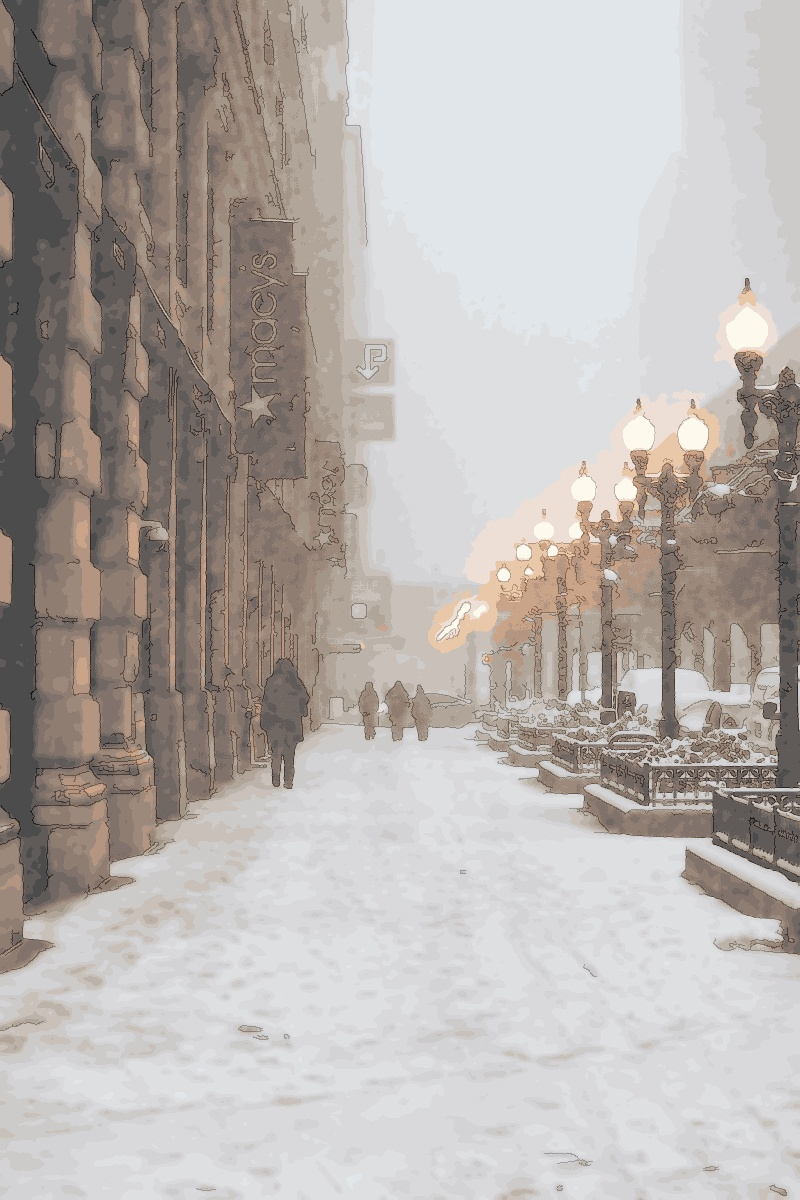
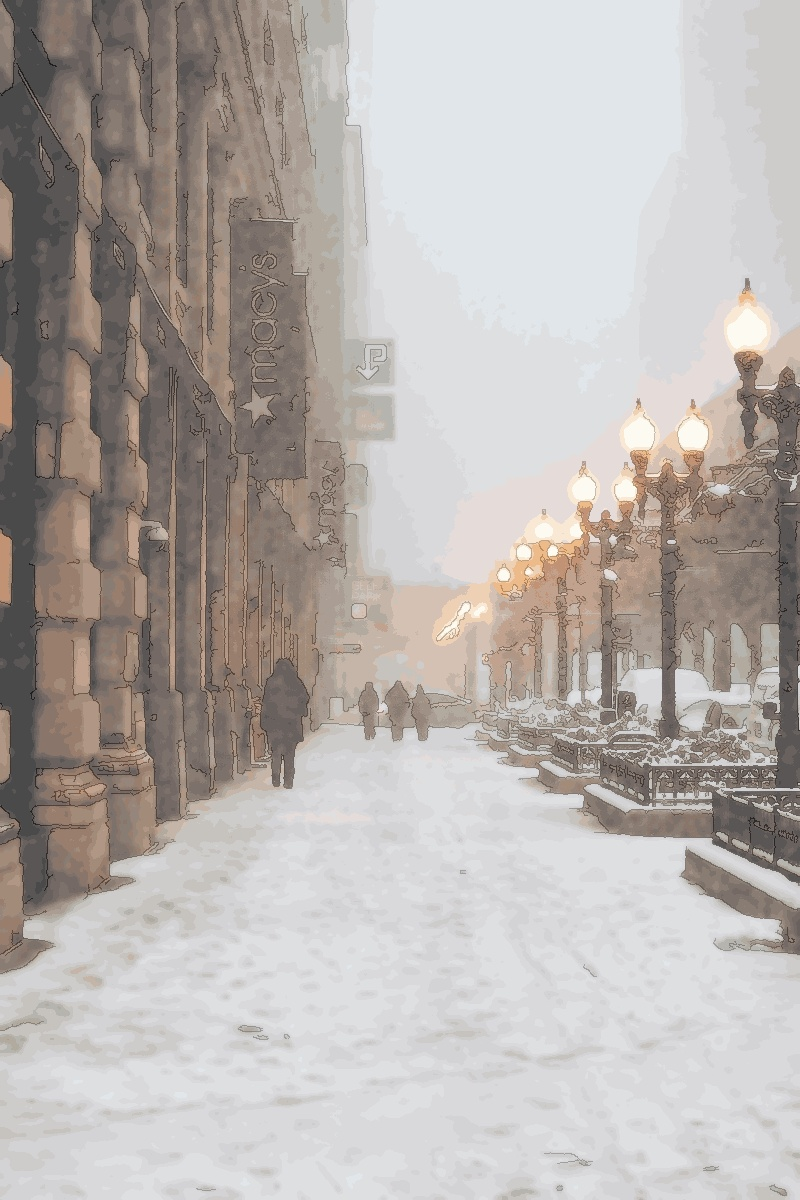
add some new functions, waiting to be tested

diff --git a/simple-cartoonize-image.py b/simple-cartoonize-image.py
@@ -41,6 +41,16 @@ def adjust_gamma(image, gamma=1.0):
     table = np.array([(i / 255.0) ** inv_gamma * 255 for i in np.arange(256)]).astype("uint8")
     return cv2.LUT(image, table)
 
+def apply_background_blur(image, edges, blur_strength=15):
+    """
+    Apply Gaussian blur to the background based on edge detection.
+    """
+    mask = cv2.bitwise_not(edges)  # Invert edges to create mask
+    mask_colored = cv2.cvtColor(mask, cv2.COLOR_GRAY2BGR)  # Convert mask to 3 channels
+    blurred_background = cv2.GaussianBlur(image, (blur_strength, blur_strength), 0)
+    blended = np.where(mask_colored == 0, blurred_background, image)
+    return blended
+
 def cartoonize_image(image_path, output_path, max_width=1200, max_height=1200):
     img = cv2.imread(image_path)
     if img is None:
@@ -52,8 +62,10 @@ def cartoonize_image(image_path, output_path, max_width=1200, max_height=1200):
     gray = cv2.cvtColor(gamma_corrected, cv2.COLOR_BGR2GRAY)
     blurred = cv2.GaussianBlur(gray, (5, 5), 0)
     edges = cv2.Canny(blurred, threshold1=50, threshold2=150)
+    # edges = thicken_edges(edges, kernel_size=2)
     color = cv2.bilateralFilter(gamma_corrected, d=9, sigmaColor=120, sigmaSpace=120)
-    quantized = kmeans_color_quantization(color, clusters=20)
+    quantized = kmeans_color_quantization(color, clusters=30)
+    blurred_background = apply_background_blur(quantized, edges, blur_strength=21)
 
     # Invert edges to make them white on black background
     edges_inv = cv2.bitwise_not(edges)
@@ -62,7 +74,10 @@ def cartoonize_image(image_path, output_path, max_width=1200, max_height=1200):
     # Blend the quantized image and the inverted edges
     alpha = 0.8  # Weight for the color image
     beta = 0.2   # Weight for the edges
-    cartoon = cv2.addWeighted(quantized, alpha, edges_inv_colored, beta, 0)
+    cartoon = cv2.addWeighted(blurred_background, alpha, edges_inv_colored, beta, 0)
+    # cartoon_sharpened = sharpen_image(cartoon)
+    # cartoon = blend_with_original(cartoon, cartoon_sharpened, alpha=0.6)
+    # cartoon = normalize_brightness(cartoon)
 
     cv2.imwrite(output_path, cartoon)
     print(f"Enhanced cartoonized image saved at {output_path}")
@@ -98,3 +113,56 @@ if __name__ == "__main__":
     input_path = "image/2.jpg"
     output_path = "enhanced_output_cartoon.jpg"
     cartoonize_image(input_path, output_path)
+
+def thicken_edges(edges, kernel_size=3):
+    """
+    Thicken the edges using dilation.
+    """
+    kernel = np.ones((kernel_size, kernel_size), np.uint8)
+    thickened_edges = cv2.dilate(edges, kernel, iterations=1)
+    return thickened_edges
+
+def sharpen_image(image, strength=1.0):
+    """
+    Apply a softer sharpening effect to the image.
+    
+    Parameters:
+    - image: Input image.
+    - strength: Strength of the sharpening effect (default=1.0). Lower values produce softer sharpening.
+
+    Returns:
+    - sharpened: Sharpened image.
+    """
+    kernel_sharpening = np.array([[0, -1, 0],
+                                  [-1, 4 + strength, -1],
+                                  [0, -1, 0]])
+    sharpened = cv2.filter2D(image, -1, kernel_sharpening)
+    return sharpened
+
+def blend_with_original(image, sharpened, alpha=0.7):
+    """
+    Blend the sharpened image with the original image for softer sharpening.
+    
+    Parameters:
+    - image: Original image.
+    - sharpened: Sharpened image.
+    - alpha: Weight of the sharpened image (default=0.7).
+
+    Returns:
+    - blended: Final blended image.
+    """
+    blended = cv2.addWeighted(image, 1 - alpha, sharpened, alpha, 0)
+    return blended
+
+def normalize_brightness(image):
+    """
+    Normalize brightness to avoid overexposure.
+    
+    Parameters:
+    - image: Input image.
+
+    Returns:
+    - normalized: Brightness-normalized image.
+    """
+    normalized = cv2.normalize(image, None, alpha=0, beta=255, norm_type=cv2.NORM_MINMAX)
+    return normalized
